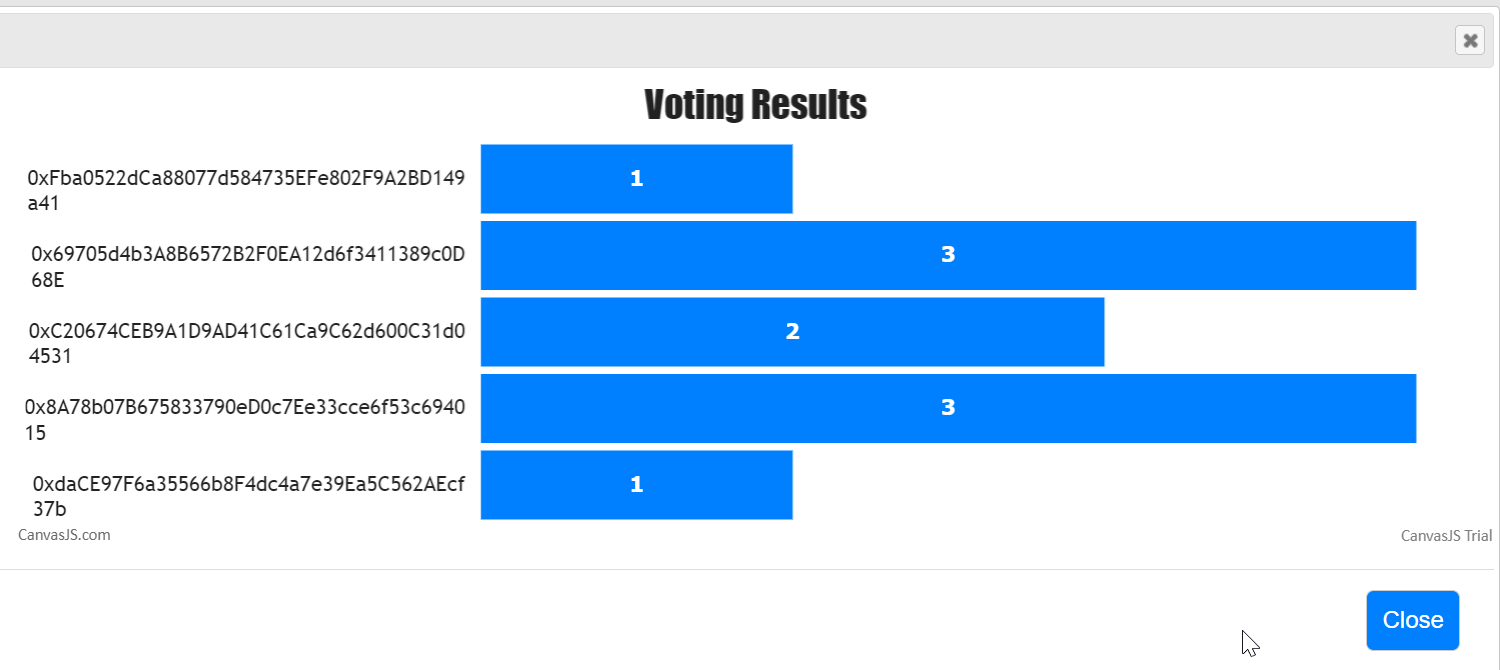
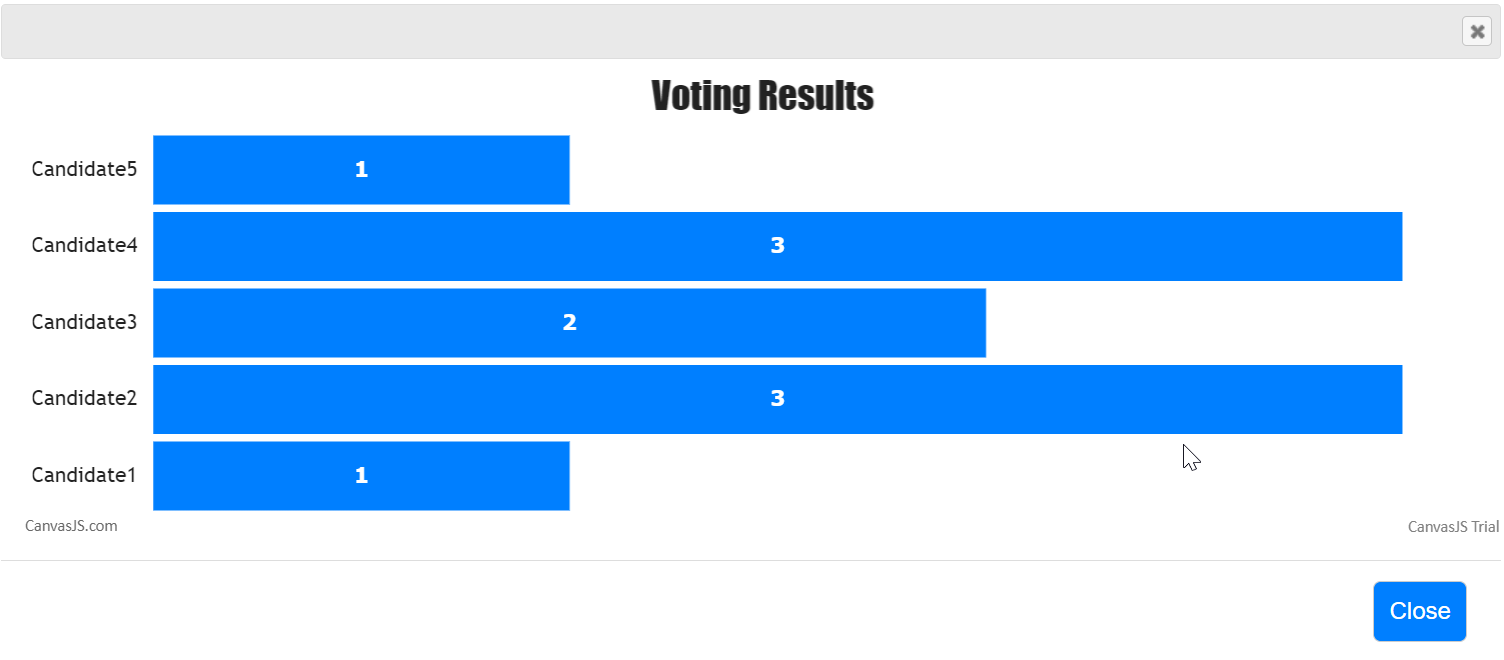
Updates to project repository. Added Candidate profiles, css updates, Candidate login functionality and Candidate information update functionality

diff --git a/css/jquery-.ui.min.css b/css/jquery-.ui.min.css
@@ -1,0 +1,7 @@
+/*! jQuery UI - v1.13.2 - 2022-07-14
+* http://jqueryui.com
+* Includes: core.css, accordion.css, autocomplete.css, menu.css, button.css, controlgroup.css, checkboxradio.css, datepicker.css, dialog.css, draggable.css, resizable.css, progressbar.css, selectable.css, selectmenu.css, slider.css, sortable.css, spinner.css, tabs.css, tooltip.css, theme.css
+* To view and modify this theme, visit http://jqueryui.com/themeroller/?ffDefault=Arial%2CHelvetica%2Csans-serif&fsDefault=1em&fwDefault=normal&cornerRadius=3px&bgColorHeader=e9e9e9&bgTextureHeader=flat&borderColorHeader=dddddd&fcHeader=333333&iconColorHeader=444444&bgColorContent=ffffff&bgTextureContent=flat&borderColorContent=dddddd&fcContent=333333&iconColorContent=444444&bgColorDefault=f6f6f6&bgTextureDefault=flat&borderColorDefault=c5c5c5&fcDefault=454545&iconColorDefault=777777&bgColorHover=ededed&bgTextureHover=flat&borderColorHover=cccccc&fcHover=2b2b2b&iconColorHover=555555&bgColorActive=007fff&bgTextureActive=flat&borderColorActive=003eff&fcActive=ffffff&iconColorActive=ffffff&bgColorHighlight=fffa90&bgTextureHighlight=flat&borderColorHighlight=dad55e&fcHighlight=777620&iconColorHighlight=777620&bgColorError=fddfdf&bgTextureError=flat&borderColorError=f1a899&fcError=5f3f3f&iconColorError=cc0000&bgColorOverlay=aaaaaa&bgTextureOverlay=flat&bgImgOpacityOverlay=0&opacityOverlay=30&bgColorShadow=666666&bgTextureShadow=flat&bgImgOpacityShadow=0&opacityShadow=30&thicknessShadow=5px&offsetTopShadow=0px&offsetLeftShadow=0px&cornerRadiusShadow=8px
+* Copyright jQuery Foundation and other contributors; Licensed MIT */
+
[1 lines of base64/hex data omitted]

diff --git a/js/Voter.js b/js/Voter.js
@@ -21,7 +21,7 @@ function RegisterVoter() {
                     localStorage.setItem(voterEthAddr + "_Voter", "voter");
                     alert("Voter registration successfull");
                     $("#voterEthAddress").val("");
-                }, function(error){
+                }, function (error) {
 
                     alert("Error occured in voter registration process - " + error);
                     $("#voterEthAddress").val("");
@@ -55,7 +55,7 @@ function voterLogin() {
 
     } catch (exception) {
         alert("Error occured" + exception);
-        
+
 
     }
 
@@ -65,30 +65,30 @@ function CastVote() {
 
     console.log("This checks to see if the voter is not one of the candidates");
     $("#CastVoteForCandidate").dialog("open");
-    
+
 
 }
 
-function SendVote(){
+function SendVote() {
 
     var candidateAddress = $("#candidateEthAddressForVote").val();
     //before casting the vote, we have to check for active voting period
 
-    try{
+    try {
 
         voting_contract.methods.castMyVote(candidateAddress)
-        .send({"from":voterAddress})
-        .then(function(){
-            alert("Vote successful");
-            $("#candidateEthAddressForVote").val("");
-            $("#CastVoteForCandidate").dialog("close");
-        }, function(error){
-            alert("Error occured - " + error);
-            $("#candidateEthAddressForVote").val("");
-            $("#CastVoteForCandidate").dialog("close");
-        });
+            .send({ "from": voterAddress })
+            .then(function () {
+                alert("Vote successful");
+                $("#candidateEthAddressForVote").val("");
+                $("#CastVoteForCandidate").dialog("close");
+            }, function (error) {
+                alert("Error occured - " + error);
+                $("#candidateEthAddressForVote").val("");
+                $("#CastVoteForCandidate").dialog("close");
+            });
 
-    }catch(error){
+    } catch (error) {
 
     }
 
@@ -106,21 +106,54 @@ function VoterLogOut() {
 
 }
 
-function ViewCandidateProfiles(source) {
+function ViewCandidateProfiles() {
     console.log("Displays the profiles of the registered candidates");
-    switch (source) {
-        case "Voter":
-            console.log("profiles should be shown as a dialog");
-            $("#CandidateProfiles").dialog("open");
-            break;
 
-        case "Candidate":
-            console.log("profiles should be shown as a div");
-            $("#CandidateProfile").show();
-            GetCandidates();
-            break;
+    $("#CandidateProfiles").dialog("open");
+    $("#CandidateProfiles").css("display", "flex");
+    GetCandidatesFromLocal();
+
+
+}
+
+function GetCandidatesFromLocal() {
+
+    var candidates = [];
+    var candidateCounter = 0;
+    var html = "";
+    for (var i = 0; i < localStorage.length; i++) {
+
+        if (localStorage[localStorage.key(i)].indexOf("Candidate") > -1) {
+            console.log("Candidate found");
+            candidateCounter = candidateCounter + 1;
+            candidateJson = JSON.parse(localStorage[localStorage.key(i)])[0];
+            candidates.push(candidateJson["CandidateAddress"]);
+
+            var strengthstext = candidateJson['CandidateStrengths'];
+            
+            var strengthshtml = strengthstext.replaceAll("\n", "<br>");
+
+            //create a div for each candidate and append it to the parent div
+            html = "<div style='float:left'><span><strong>Candidate" + candidateCounter + "</strong></span><br><br><br>";
+            //appending the candidate photo
+            html = html + "<img src='" + candidateJson["CandidatePhoto"] + "' style='width:100px;height:100px'/><br><br><br>";
+            html = html + "<span><strong>Strengths</strong>: <br><br><span>" + strengthshtml + "</span></span>";
+            html = html + "</div><div>&nbsp;&nbsp;&nbsp;&nbsp;&nbsp;&nbsp;&nbsp;&nbsp;&nbsp;&nbsp;&nbsp;&nbsp;</div>";
+
+            $("#CandidateProfiles").append(html);
+
+
+
+
+        } else {
+            console.log("Candidate not found");
+        }
+
 
     }
+
+    console.log(candidates);
+
 
 
 }

diff --git a/html/index.html b/html/index.html
@@ -1,8 +1,8 @@
 <html>
 
 <head>
-    <link rel="stylesheet" href="https://cdnjs.cloudflare.com/ajax/libs/jqueryui/1.13.2/themes/base/jquery-ui.min.css">
-    <!--<link rel="stylesheet" href="../jquery-ui-1.13.2.custom/jquery-ui.min.css">-->
+    <!--<link rel="stylesheet" href="https://cdnjs.cloudflare.com/ajax/libs/jqueryui/1.13.2/themes/base/jquery-ui.min.css">-->
+    <link rel="stylesheet" href="../css/jquery-.ui.min.css">
     <link rel="stylesheet" href="../css/index_main.css">
 
     <script src="../js/jquery-3.6.0.js"></script>
@@ -24,7 +24,7 @@
     <div id="tabs">
         <ul>
             <li><a href="#contractOwner">Voting Authority</a></li>
-            <li><a href="#candidate" onclick="ViewCandidateProfiles('Candidate')">Candidates</a></li>
+            <li><a href="#candidate">Candidates</a></li>
             <li><a href="#voter">Voters</a></li>
         </ul>
         <!--Div section for contract owner to trigger voting-->
@@ -54,7 +54,21 @@
         </div>
         <!--Div section for candidates standing in the election-->
         <div id="candidate" style="display:block"><br><br>
-            <div id="CandidateProfile" style="display:none;"><span>Placeholder for Candidate Profiles</span></div>
+            <!--<div id="CandidateProfile" style="display:none;"><span>Placeholder for Candidate Profiles</span></div>-->
+            <div id="candidateLogin">
+                <label title="Please provide a valid Candidate Private key">Candidate Login: </label><br><br>
+                <input type="text" id="candidatePrivateKey" placeholder="Please provide a valid Candidate Private key"></input><br><br><br><br>
+                <button type="submit" id="btnCandidateLogin" onclick="candidateLogin()">Login</button>
+            </div><br>
+            <div id="candidateActions" style="display:none;">
+                <button id="btnUpdateProfile" onclick="UpdateCandidateProfile()"> Update Candidate Profile</button><br><br>
+                <button id="btnCandidateLogOut" onclick="LogOutCandidate()">Log Out</button>
+            </div>
+            <div id="CandidateProfile" style="display:none;">
+                <label>Candidate Photo: </label><br><br>
+                <input type="text" id="candidateProfilePhoto" placeholder="Please provide the location of the Candidate photo"></input><br><br><br><br>
+                <label>Candidate Strengths: </label><br><br><textarea id="candidateProfileStrengths"></textarea><br><br>
+            </div>
 
         </div>
         <!--Div section for voters to cast their votes-->
@@ -80,7 +94,7 @@
                 
         </div>
         <div id="VotingResults" style="display:none;"><span>Placeholder for Voting results</span></div>
-        <div id="CandidateProfiles" style="display:none;"><span>Placeholder for Candidate Profiles</span></div>
+        <div id="CandidateProfiles" style="display:none;"></div>
         <div id="CandidateRegistration" style="display:none">
             <label>Candidate ETH Address: </label><br><input type="text" id="candidateEthAddress" /><br><br>
             <label>Candidate Photo: </label><br><input type="text" id="candidatePhoto"><br><br>

diff --git a/js/Candidate.js b/js/Candidate.js
@@ -1,4 +1,6 @@
-
+var w3 = new Web3(votingAppConfig.rpc_url);
+var voting_contract = new w3.eth.Contract(votingAppConfig.votingapp_abi_json, votingAppConfig.votingapp_crowdsale_address);
+var candidateAddress;
 
 async function GetCandidates() {
 
@@ -6,16 +8,18 @@ async function GetCandidates() {
     var CandidateVotes = [];
 
     var PromiseArray = [];
+    var candidateCount = 0;
 
-    for (var i = 0; i < localStorage.length - 1; i++) {
+    for (var i = 0; i < localStorage.length; i++) {
 
         if (localStorage.key(i).indexOf("Candidate") > -1) {
-            
+            candidateCount = candidateCount +1;
             var candidate_json = JSON.parse(localStorage.getItem(localStorage.key(i)))[0];
-            candidates.push(candidate_json);
+            //candidates.push(candidate_json);
             await GetNumberOfVotes(candidate_json["CandidateAddress"]).then(function(data){
                 console.log("Number of votes returned - " + data);
-                CandidateVotes.push({ "label": candidate_json["CandidateAddress"], "y": Number(data), "indexLabel": data});
+                //CandidateVotes.push({ "label": candidate_json["CandidateAddress"], "y": Number(data), "indexLabel": data});
+                CandidateVotes.push({ "label": "Candidate"+candidateCount, "y": Number(data), "indexLabel": data});
             });
             
             
@@ -83,6 +87,61 @@ function DisplayGraph(CandidateVotes){
     };
 
     $("#VotingResults").CanvasJSChart(options);
+
+}
+
+function candidateLogin(){
+    try {
+
+        var candidateKey = $("#candidatePrivateKey").val();
+
+        candidateAddress = w3.eth.accounts.privateKeyToAccount(candidateKey).address;
+
+        if (localStorage.getItem(candidateAddress + "_Voter")) {
+            //user is a registered voter, take them to the voter options
+            $("#candidateLogin").fadeOut(1000);            
+            $("#candidateActions").fadeIn(3000);
+
+        } else {
+            alert("Candidate is not registered!");
+            $("#candidatePrivateKey").val("");
+        }
+
+    } catch (exception) {
+        alert("Error occured" + exception);
+        
+
+    }
+}
+
+function UpdateProfile(){
+
+    var candidateJson = JSON.parse(localStorage.getItem(candidateAddress + "_Candidate"))[0];
+    var candidatePhotoLocation = $("#candidateProfilePhoto").val();
+    var candidateStrengthsValue = $("#candidateProfileStrengths").val();
+
+    candidateJson.CandidatePhoto = candidatePhotoLocation;
+    candidateJson.CandidateStrengths = candidateStrengthsValue;
+
+    var candidateJsonString = JSON.stringify([candidateJson]);
+    
+    localStorage.setItem(candidateAddress+"_Candidate", candidateJsonString);
+    $("#candidateProfilePhoto").val("");
+    $("#candidateProfileStrengths").val("");
+
+    $("#CandidateProfile").dialog("close");
+
+}
+
+function UpdateCandidateProfile(){
+    $("#CandidateProfile").dialog("open");
+}
+
+function LogOutCandidate(){
+
+    $("#candidateActions").fadeOut(1000);
+    $("#candidateLogin").fadeIn(3000);            
+    
 
 }
 

diff --git a/js/index_main.js b/js/index_main.js
@@ -41,6 +41,7 @@ $(document).ready(function () {
     InitializeCandidateRegistrationDialog();
     InitializeVotingResultsDialog();
     InitializeCandidateProfileDialog();
+    InitializeCandidateProfileUpdateDialog();
     InitializeCandidateVoteDialog();
     
 
@@ -209,6 +210,7 @@ function InitializeCandidateVoteDialog() {
         height: 350,
         width: "50%",
         modal: true,
+        title: "Cast Vote",
         buttons: {
             "Vote": SendVote,
             Cancel: function () {
@@ -235,6 +237,7 @@ function InitializeCandidateRegistrationDialog() {
         height: 350,
         width: "50%",
         modal: true,
+        title: "Candidate Registration",
         buttons: {
             "Register Candidate": RegisterCandidate,
             Cancel: function () {
@@ -260,6 +263,7 @@ function InitializeVotingResultsDialog() {
         height: 450,
         width: 1000,
         modal: true,
+        title: "Voting Results",
         buttons: {
 
             "Close": function () { $("#VotingResults").dialog("close"); }
@@ -279,12 +283,13 @@ function InitializeVotingResultsDialog() {
 function InitializeCandidateProfileDialog() {
     $("#CandidateProfiles").dialog({
         autoOpen: false,
-        height: 350,
-        width: "50%",
+        height: 500,
+        width: 900,
         modal: true,
+        title: "Candidate Profiles",
         buttons: {
 
-            "Close": function () { $("#CandidateProfiles").dialog("close"); }
+            "Close": function () { $("#CandidateProfiles").html("").dialog("close"); }
         },
 
         show: {
@@ -297,6 +302,29 @@ function InitializeCandidateProfileDialog() {
         }
     });
 
+}
+
+function  InitializeCandidateProfileUpdateDialog(){
+    $("#CandidateProfile").dialog({
+        autoOpen: false,
+        height: 500,
+        width: 700,
+        modal: true,
+        title: "Update Candidate Profile",
+        buttons: {
+            "Update Profile": UpdateProfile,
+            "Close": function () { $("#CandidateProfile").dialog("close"); }
+        },
+
+        show: {
+            effect: "fadeIn",
+            duration: 1000
+        },
+        hide: {
+            effect: "fadeOut",
+            duration: 1000
+        }
+    });
 }
 
 function showResults() {

diff --git a/css/index_main.css b/css/index_main.css
@@ -21,7 +21,7 @@ button {
 input, textarea {
     border-radius: 5px;
     background-color: lightgray;
-    width: 50%;
+    width: 550px;
     
 }
 
@@ -32,7 +32,14 @@ textarea{
     height:100px;
 }
 
-label{
+label span{
 
     font-family:'Lucida Sans', 'Lucida Sans Regular', 'Lucida Grande', 'Lucida Sans Unicode', Geneva, Verdana, sans-serif ;
+}
+
+img{
+    border-radius: 10px;
+    box-shadow: 8px 8px lightblue;
+    
+    
 }
